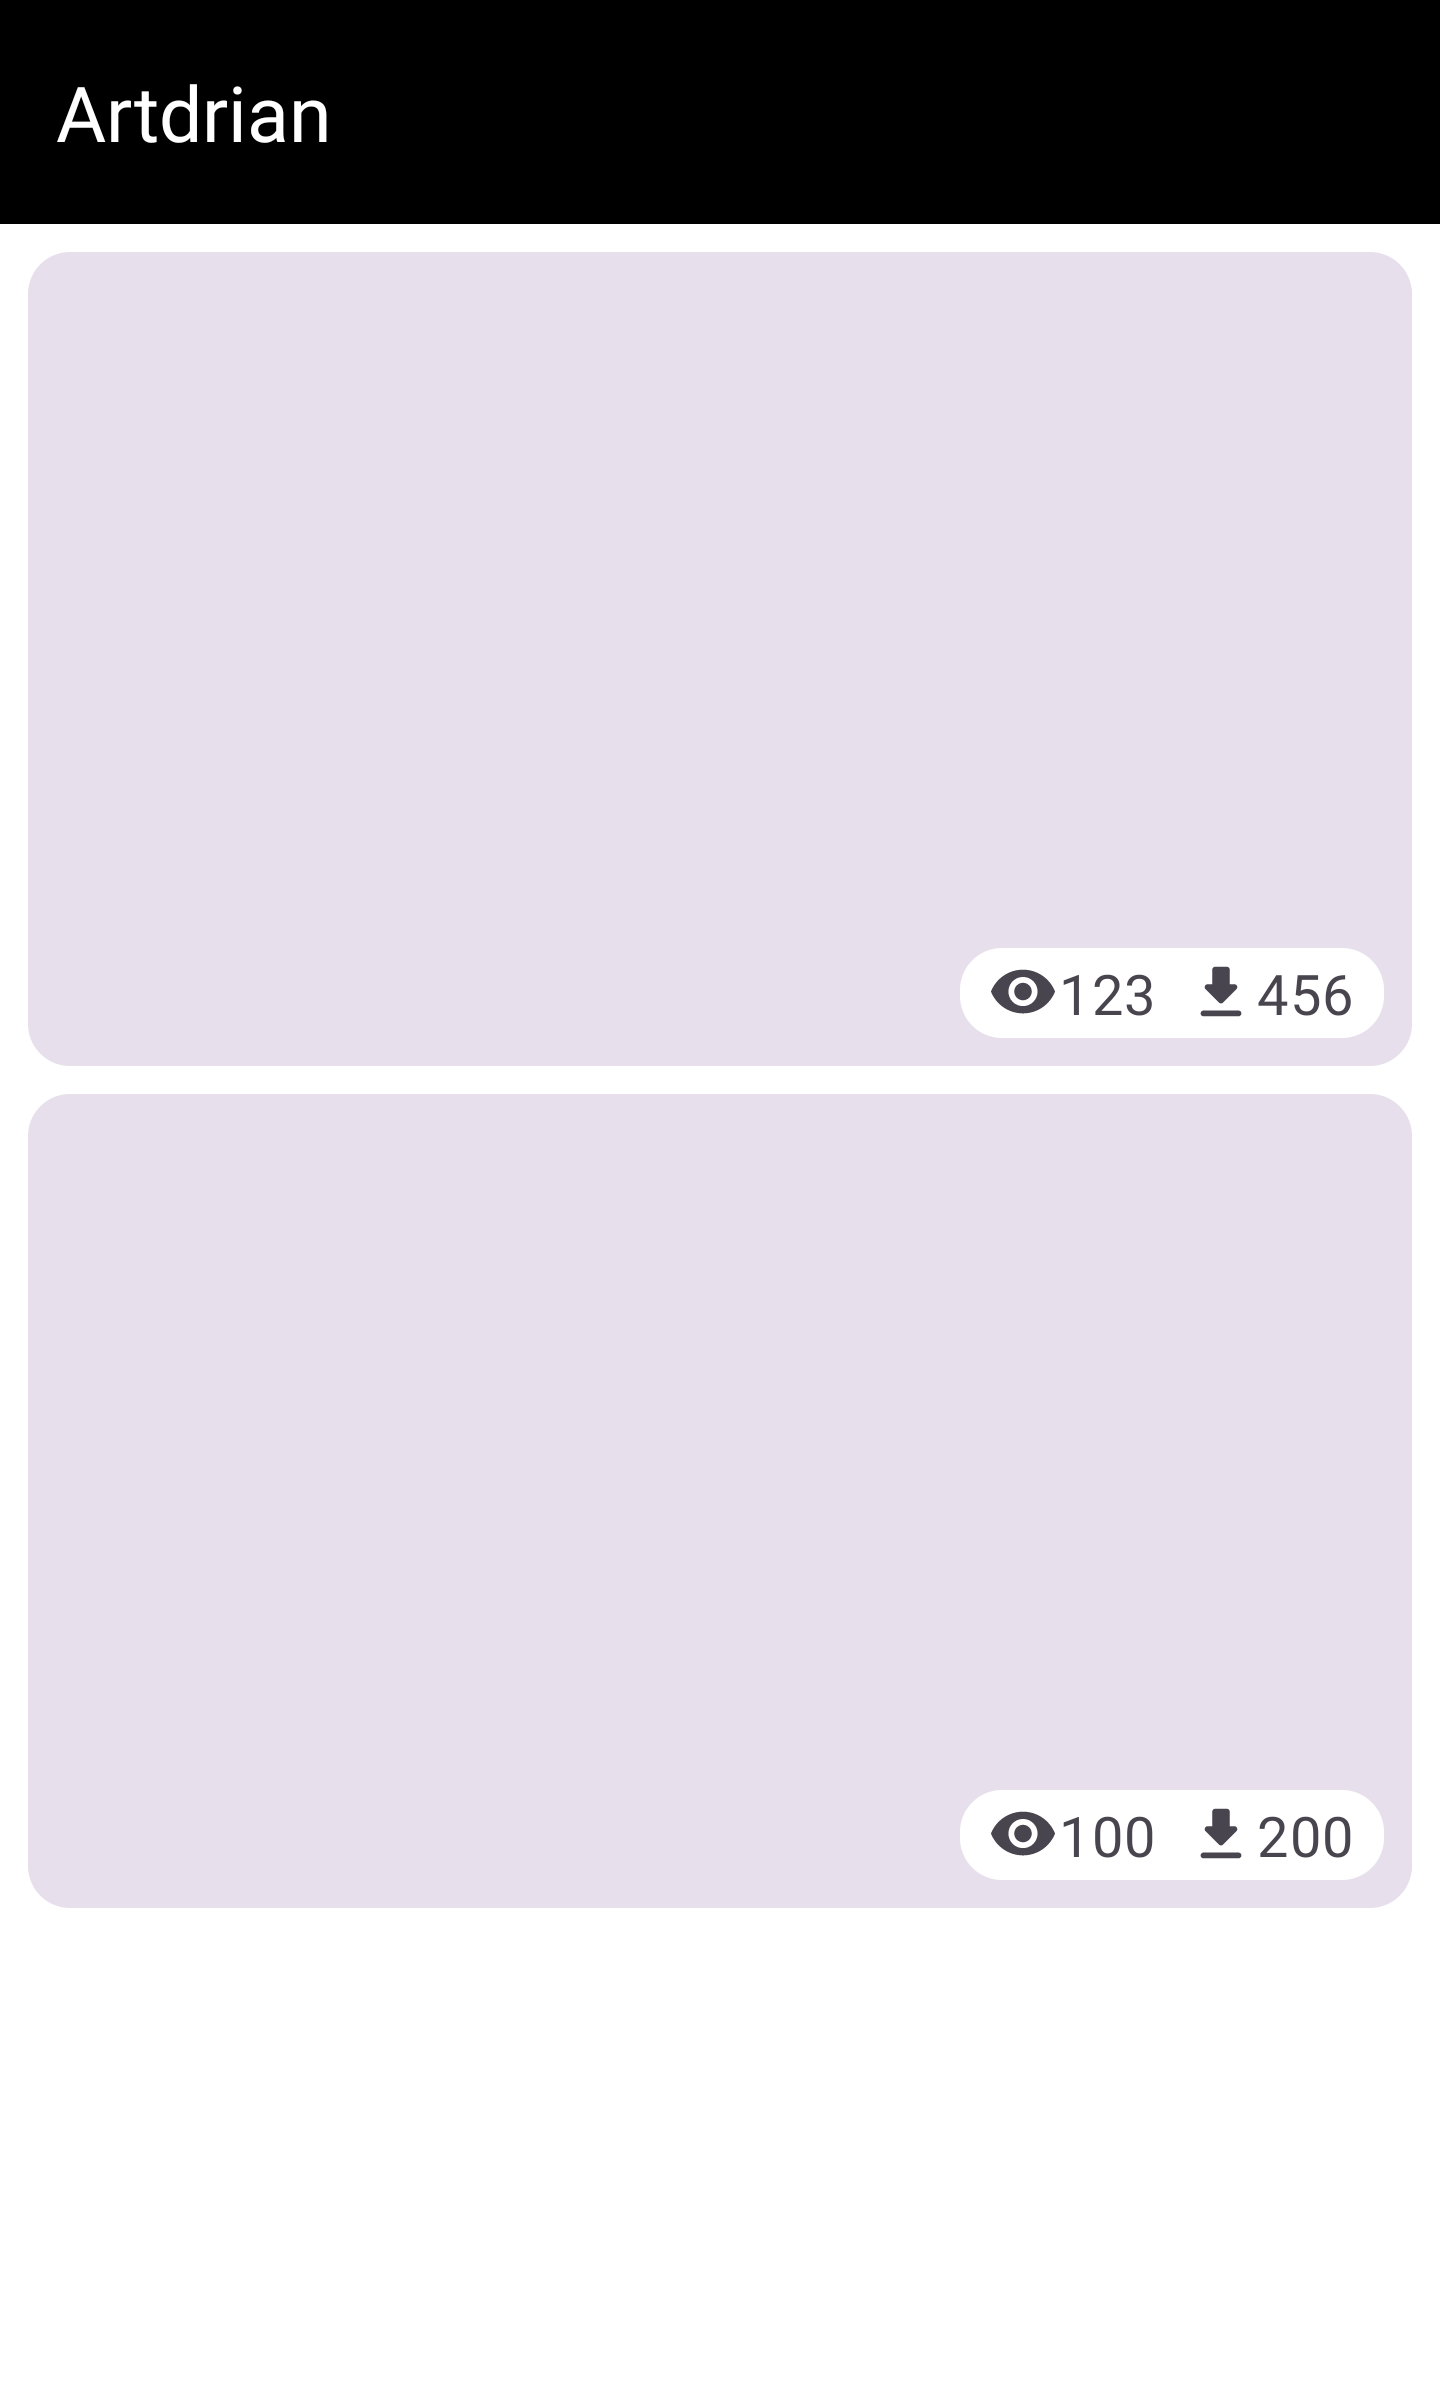
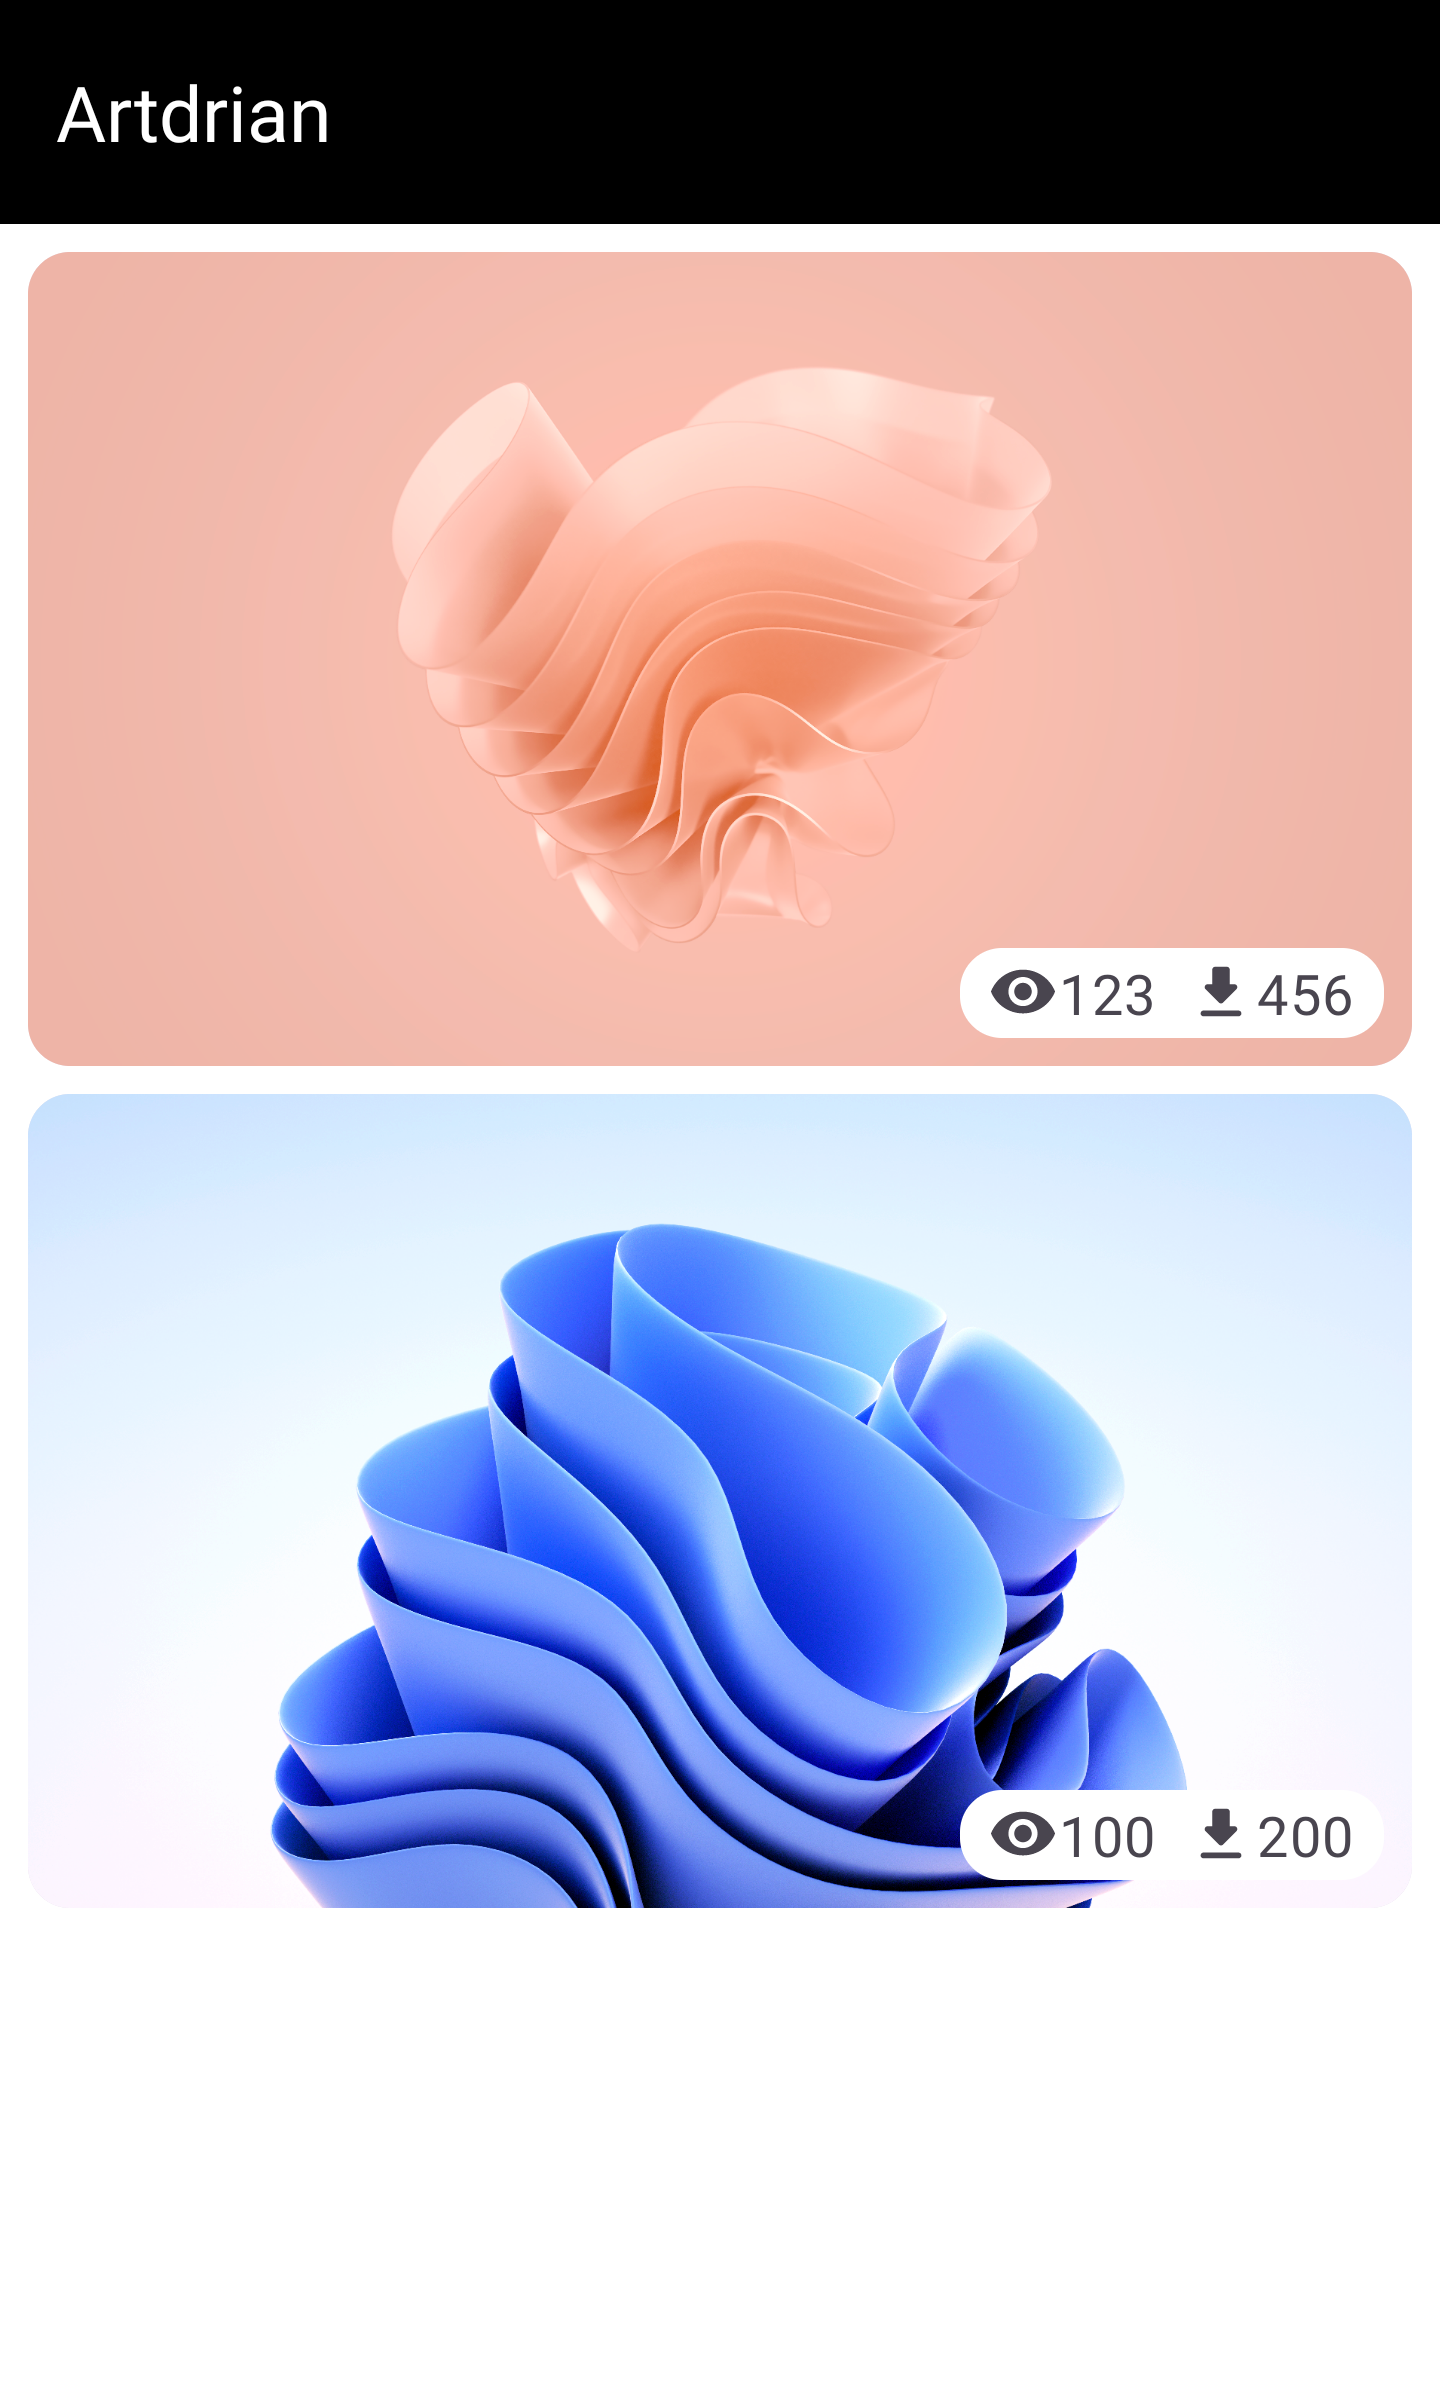
#9 Creates a test for WallpaperListActivity

diff --git a/app/src/androidTest/java/com/sefford/artdrian/wallpaperlist/ui/WallpaperListActivityTest.kt b/app/src/androidTest/java/com/sefford/artdrian/wallpaperlist/ui/WallpaperListActivityTest.kt
@@ -1,0 +1,25 @@
+package com.sefford.artdrian.wallpaperlist.ui
+
+import androidx.compose.ui.test.junit4.createAndroidComposeRule
+import androidx.compose.ui.test.onNodeWithTag
+import androidx.compose.ui.test.performClick
+import androidx.test.ext.junit.runners.AndroidJUnit4
+import com.karumi.shot.ScreenshotTest
+import com.sefford.artdrian.WallpaperMother
+import org.junit.Rule
+import org.junit.Test
+import org.junit.runner.RunWith
+
+@RunWith(AndroidJUnit4::class)
+class WallpaperListActivityTest: ScreenshotTest {
+
+    @get:Rule
+    val composeTestRule = createAndroidComposeRule<WallpaperListActivity>()
+
+    @Test
+    fun navigatesToTheWallpaperDetail() {
+        composeTestRule.onNodeWithTag(WallpaperMother.FIRST_ID).performClick()
+
+        compareScreenshot(composeTestRule)
+    }
+}

diff --git a/app/src/main/java/com/sefford/artdrian/wallpaperlist/ui/WallpaperCards.kt b/app/src/main/java/com/sefford/artdrian/wallpaperlist/ui/WallpaperCards.kt
@@ -16,6 +16,7 @@ import androidx.compose.ui.Modifier
 import androidx.compose.ui.draw.clip
 import androidx.compose.ui.graphics.Color
 import androidx.compose.ui.layout.ContentScale
+import androidx.compose.ui.platform.testTag
 import androidx.compose.ui.tooling.preview.Preview
 import androidx.compose.ui.unit.dp
 import coil.compose.AsyncImage
@@ -33,7 +34,7 @@ fun WallpaperCard(
             .fillMaxWidth()
             .aspectRatio(1.7f)
     ) {
-        Box(modifier = Modifier.fillMaxSize().clickable(onClick = onItemClicked)) {
+        Box(modifier = Modifier.fillMaxSize().testTag(wallpaper.metadata.id).clickable(onClick = onItemClicked)) {
             AsyncImage(
                 modifier = Modifier.fillMaxSize(),
                 model = wallpaper.desktop,

diff --git a/app/src/androidTest/java/com/sefford/artdrian/test/TestApplication.kt b/app/src/androidTest/java/com/sefford/artdrian/test/TestApplication.kt
@@ -1,0 +1,17 @@
+package com.sefford.artdrian.test
+
+import android.app.Application
+import com.sefford.artdrian.Endpoints
+import com.sefford.artdrian.TopComponentHolder
+import com.sefford.artdrian.di.ApplicationComponent
+import com.sefford.artdrian.di.ApplicationModule
+import com.sefford.artdrian.di.CoreModule
+import com.sefford.artdrian.di.DaggerTestApplicationComponent
+
+class TestApplication: Application(), TopComponentHolder {
+
+    override val graph: ApplicationComponent = DaggerTestApplicationComponent.builder()
+        .applicationModule(ApplicationModule(this))
+        .coreModule(CoreModule(Endpoints.ENDPOINT))
+        .build()
+}

diff --git a/app/src/androidTest/java/com/sefford/artdrian/test/ArtdrianTestRunner.kt b/app/src/androidTest/java/com/sefford/artdrian/test/ArtdrianTestRunner.kt
@@ -1,0 +1,14 @@
+package com.sefford.artdrian.test
+
+import android.app.Application
+import android.content.Context
+import com.karumi.shot.ShotTestRunner
+
+class ArtdrianTestRunner: ShotTestRunner() {
+
+    @Throws(IllegalAccessException::class, ClassNotFoundException::class, InstantiationException::class)
+    override fun newApplication(cl: ClassLoader?, className: String?, context: Context?): Application? {
+        return super.newApplication(cl, TestApplication::class.java.name, context)
+    }
+
+}

diff --git a/app/src/androidTest/java/com/sefford/artdrian/di/FakeApiModule.kt b/app/src/androidTest/java/com/sefford/artdrian/di/FakeApiModule.kt
@@ -1,0 +1,16 @@
+package com.sefford.artdrian.di
+
+import com.sefford.artdrian.WallpaperMother.WALLPAPER_LIST
+import com.sefford.artdrian.datasources.FakeWallpaperApi
+import com.sefford.artdrian.datasources.WallpaperApi
+import dagger.Module
+import dagger.Provides
+import javax.inject.Singleton
+
+@Module
+class FakeApiModule {
+
+    @Provides
+    @Singleton
+    fun providesWallpaperApi(): WallpaperApi = FakeWallpaperApi{ WALLPAPER_LIST.map { it.metadata } }
+}

diff --git a/app/src/androidTest/java/com/sefford/artdrian/WallpaperMother.kt b/app/src/androidTest/java/com/sefford/artdrian/WallpaperMother.kt
@@ -7,11 +7,12 @@ import java.time.ZoneOffset
 import java.util.*
 
 object WallpaperMother {
+    const val FIRST_ID = "1"
 
     val WALLPAPER_LIST = listOf(
         Wallpaper(
             Metadata(
-            id = "1",
+            id = FIRST_ID,
             slug = "ghost_waves_001",
             views = 123,
             downloads = 456,

diff --git a/app/src/androidTest/java/com/sefford/artdrian/di/TestApplicationComponent.kt b/app/src/androidTest/java/com/sefford/artdrian/di/TestApplicationComponent.kt
@@ -1,0 +1,13 @@
+package com.sefford.artdrian.di
+
+import dagger.Component
+import javax.inject.Singleton
+
+@Component(modules = [
+    ApplicationModule::class,
+    CoreModule::class,
+    AndroidModule::class,
+    FakeApiModule::class
+])
+@Singleton
+interface TestApplicationComponent: ApplicationComponent

diff --git a/app/src/androidTest/java/com/sefford/artdrian/datasources/FakeWallpaperApi.kt b/app/src/androidTest/java/com/sefford/artdrian/datasources/FakeWallpaperApi.kt
@@ -1,0 +1,9 @@
+package com.sefford.artdrian.datasources
+
+import com.sefford.artdrian.model.Metadata
+
+class FakeWallpaperApi(private val response: () -> List<Metadata>) : WallpaperApi {
+
+    override suspend fun getAllMetadata(): List<Metadata> = response()
+
+}
